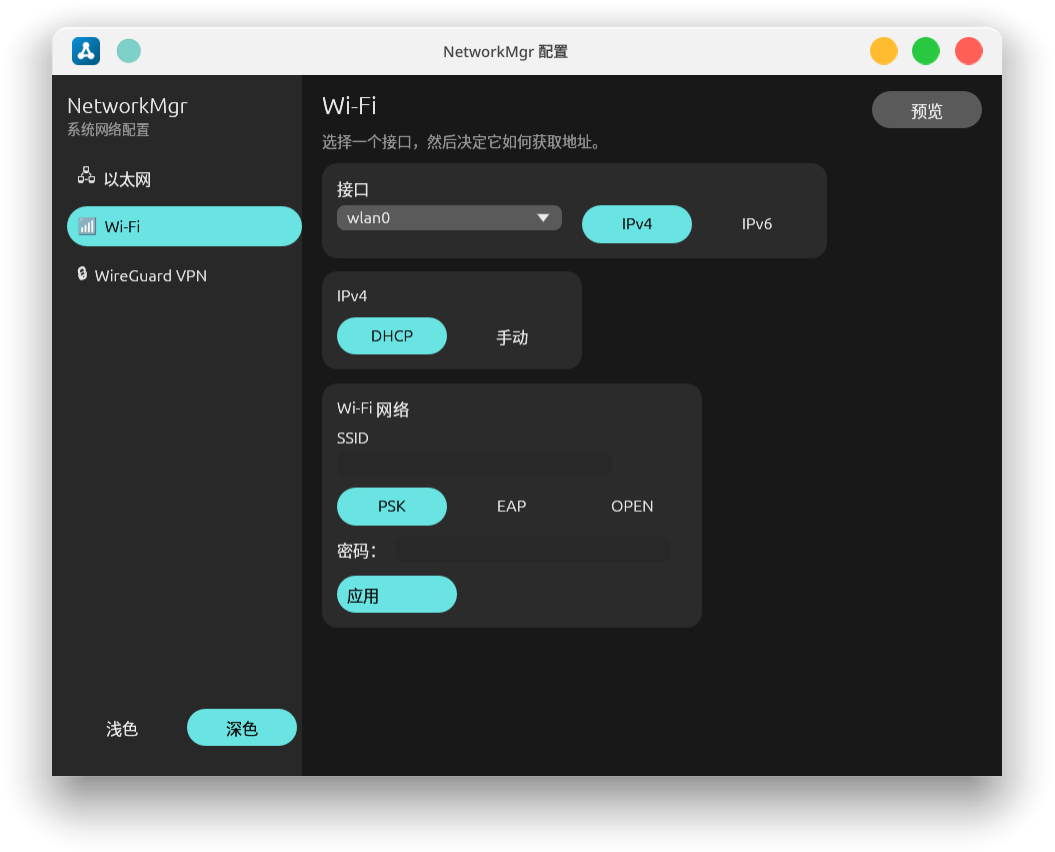
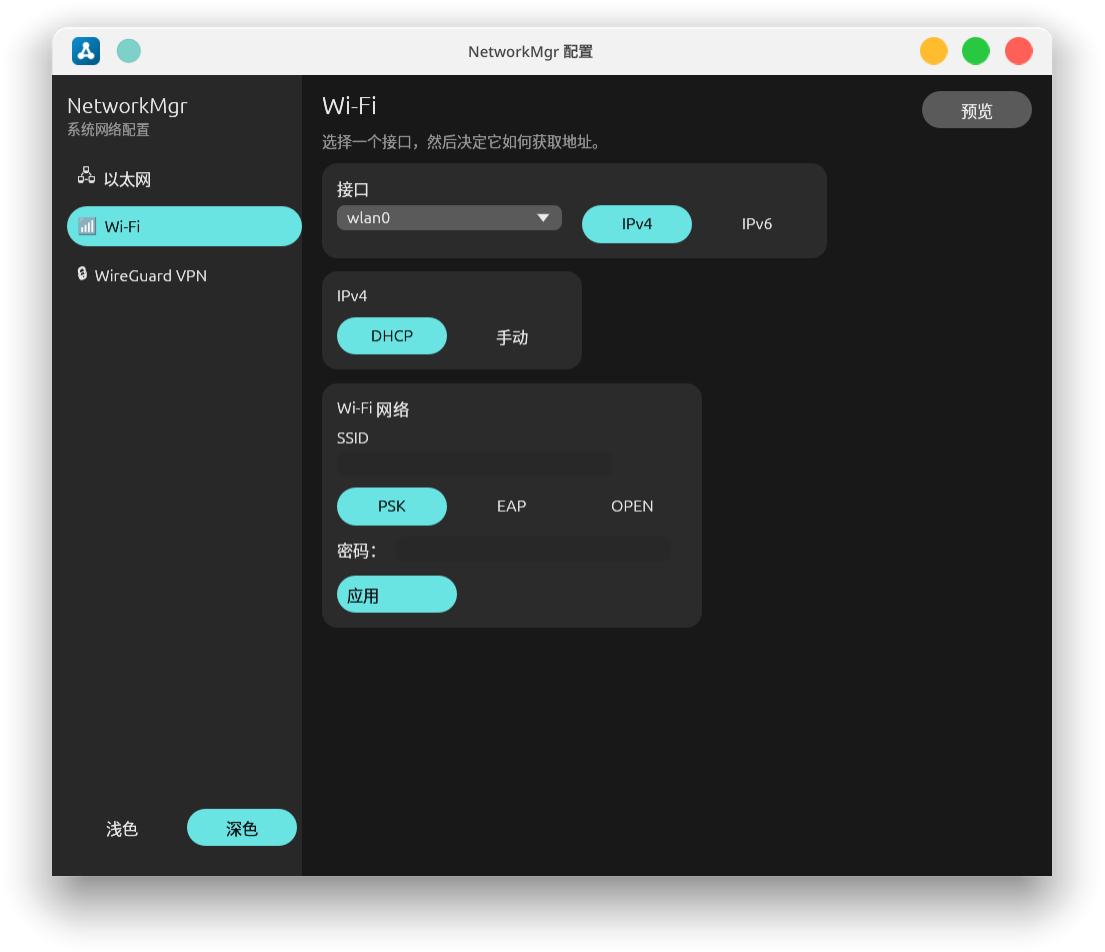
feat: keep the config window at a fixed size and complete the EAP form

diff --git a/rust/spikes/src/bin/config-window.rs b/rust/spikes/src/bin/config-window.rs
@@ -200,7 +200,6 @@ struct ConfigWindow {
     limit: Option<Duration>,
     dark: bool,
     nav: Nav,
-    last_nav: Nav,
     tab: Tab,
     /// 当前页签使用的接口列表；切换页签时由 `switch_nav` 重新填充。
     interfaces: Vec<String>,
@@ -234,6 +233,9 @@ struct ConfigWindow {
     eap_password: String,
     eap_phase2: String,
     eap_ca: String,
+    eap_client_cert: String,
+    eap_private_key: String,
+    eap_key_password: String,
     wifi_status: String,
     vpn_status: String,
     runner: RealRunner,
@@ -254,7 +256,6 @@ impl Default for ConfigWindow {
             limit: None,
             dark: false,
             nav: Nav::Wire,
-            last_nav: Nav::Wire,
             tab: Tab::Ipv4,
             interfaces: wire.clone(),
             selected: 0,
@@ -287,6 +288,9 @@ impl Default for ConfigWindow {
             eap_password: String::new(),
             eap_phase2: "MSCHAPV2".to_string(),
             eap_ca: String::new(),
+            eap_client_cert: String::new(),
+            eap_private_key: String::new(),
+            eap_key_password: String::new(),
             wifi_status: String::new(),
             vpn_status: String::new(),
             runner: RealRunner::new(),
@@ -493,6 +497,9 @@ impl ConfigWindow {
                     password: self.eap_password.clone(),
                     phase2: Some(self.eap_phase2.clone()),
                     ca_cert: self.eap_ca.clone(),
+                    client_cert: self.eap_client_cert.clone(),
+                    private_key: self.eap_private_key.clone(),
+                    private_key_passwd: self.eap_key_password.clone(),
                     ..Default::default()
                 };
                 sys.wpa_save_eap_network(&nic, &self.wifi_ssid, &eap)
@@ -749,6 +756,7 @@ impl ConfigWindow {
                 });
             }
             WifiSecurity::Eap => {
+                let tls = self.eap_method == "TLS";
                 egui::Grid::new("eap")
                     .num_columns(2)
                     .spacing([18.0, 10.0])
@@ -776,34 +784,62 @@ impl ConfigWindow {
                             networkmgr_core::tr!("Username:"),
                             &mut self.eap_identity,
                         );
-                        ui.label(
-                            RichText::new(networkmgr_core::tr!("Password:"))
-                                .size(13.0)
-                                .color(theme.text),
-                        );
-                        ui.add(
-                            egui::TextEdit::singleline(&mut self.eap_password)
-                                .password(true)
-                                .desired_width(220.0),
-                        );
-                        ui.end_row();
-                        ui.label(
-                            RichText::new(networkmgr_core::tr!("Inner Auth:"))
-                                .size(13.0)
-                                .color(theme.text),
-                        );
-                        egui::ComboBox::from_id_salt("eap_phase2")
-                            .selected_text(&self.eap_phase2)
-                            .show_ui(ui, |ui| {
-                                for method in ["MSCHAPV2", "MSCHAP", "PAP", "CHAP", "GTC", "TLS"] {
-                                    ui.selectable_value(
-                                        &mut self.eap_phase2,
-                                        method.to_string(),
-                                        method,
-                                    );
-                                }
-                            });
-                        ui.end_row();
+                        if tls {
+                            field(
+                                ui,
+                                theme,
+                                networkmgr_core::tr!("Client Cert:"),
+                                &mut self.eap_client_cert,
+                            );
+                            field(
+                                ui,
+                                theme,
+                                networkmgr_core::tr!("Private Key:"),
+                                &mut self.eap_private_key,
+                            );
+                            ui.label(
+                                RichText::new(networkmgr_core::tr!("Key Password:"))
+                                    .size(13.0)
+                                    .color(theme.text),
+                            );
+                            ui.add(
+                                egui::TextEdit::singleline(&mut self.eap_key_password)
+                                    .password(true)
+                                    .desired_width(220.0),
+                            );
+                            ui.end_row();
+                        } else {
+                            ui.label(
+                                RichText::new(networkmgr_core::tr!("Password:"))
+                                    .size(13.0)
+                                    .color(theme.text),
+                            );
+                            ui.add(
+                                egui::TextEdit::singleline(&mut self.eap_password)
+                                    .password(true)
+                                    .desired_width(220.0),
+                            );
+                            ui.end_row();
+                            ui.label(
+                                RichText::new(networkmgr_core::tr!("Inner Auth:"))
+                                    .size(13.0)
+                                    .color(theme.text),
+                            );
+                            egui::ComboBox::from_id_salt("eap_phase2")
+                                .selected_text(&self.eap_phase2)
+                                .show_ui(ui, |ui| {
+                                    for method in
+                                        ["MSCHAPV2", "MSCHAP", "PAP", "CHAP", "GTC", "TLS"]
+                                    {
+                                        ui.selectable_value(
+                                            &mut self.eap_phase2,
+                                            method.to_string(),
+                                            method,
+                                        );
+                                    }
+                                });
+                            ui.end_row();
+                        }
                         field(
                             ui,
                             theme,
@@ -975,17 +1011,6 @@ impl ConfigWindow {
 
 impl eframe::App for ConfigWindow {
     fn ui(&mut self, ui: &mut egui::Ui, _frame: &mut eframe::Frame) {
-        // 每页内容高度差很大；切换时把窗口收到内容附近，避免大片空白。
-        if self.last_nav != self.nav {
-            self.last_nav = self.nav;
-            let height = match self.nav {
-                Nav::Wire => 400.0,
-                Nav::Wireless => 560.0,
-                Nav::Vpn => 320.0,
-            };
-            ui.ctx()
-                .send_viewport_cmd(egui::ViewportCommand::InnerSize(egui::vec2(760.0, height)));
-        }
         let theme = Theme::for_mode(self.dark);
         apply_visuals(ui.ctx(), &theme);
 
@@ -1060,14 +1085,9 @@ fn main() -> eframe::Result<()> {
         .filter(|name| networkmgr_core::ifconfig::is_configurable_interface(name))
         .collect();
     let page = std::env::var("NETWORKMGR_PAGE").unwrap_or_default();
-    let initial_height = match page.as_str() {
-        "wire" => 400.0,
-        "vpn" => 320.0,
-        _ => 560.0,
-    };
     let options = eframe::NativeOptions {
         viewport: egui::ViewportBuilder::default()
-            .with_inner_size([760.0, initial_height])
+            .with_inner_size([800.0, 640.0])
             .with_icon(window_icon())
             .with_title(networkmgr_core::tr!("NetworkMgr configuration")),
         renderer: eframe::Renderer::Glow,
@@ -1099,10 +1119,15 @@ fn main() -> eframe::Result<()> {
                 window.interfaces = window.wire_interfaces.clone();
                 window.selected = 0;
             }
-            match std::env::var("NETWORKMGR_PAGE")
-                .unwrap_or_default()
-                .as_str()
-            {
+            if std::env::var("NETWORKMGR_WIFI_SECURITY").as_deref() == Ok("eap") {
+                window.wifi_security = WifiSecurity::Eap;
+            }
+            if let Ok(method) = std::env::var("NETWORKMGR_EAP_METHOD") {
+                if ["PEAP", "TTLS", "TLS"].contains(&method.as_str()) {
+                    window.eap_method = method;
+                }
+            }
+            match page.as_str() {
                 "wire" => window.switch_nav(Nav::Wire),
                 "wireless" => window.switch_nav(Nav::Wireless),
                 "vpn" => window.switch_nav(Nav::Vpn),

diff --git a/docs/RUST_REWRITE_PLAN.md b/docs/RUST_REWRITE_PLAN.md
@@ -999,8 +999,9 @@ CI 备注：`actions/upload-artifact@v4` 触发 GitHub 的 `Node.js 20 is deprec
 - VPN 页读取 `/usr/local/etc/wireguard`，列出隧道与状态，可直接启停。
 - 明暗切换固定到侧栏左下角（按剩余高度推到底部）。
 - 布局收紧：侧栏 252→220、卡片内边距 16→12、按钮与胶囊缩小、间距 12→8。
-- 窗口宽度固定 760；高度按页签自适应（以太网 400 / 无线 560 / VPN 320），
-  切换页签时用 `ViewportCommand::InnerSize` 收到内容附近，避免大面积空白。
+- 窗口固定 **800×640**，不随页签变化；内容超出时使用滚动条，所有字段都能看到。
+- EAP 表单在 PEAP/TTLS 下显示口令与内层认证，TLS 下改为客户端证书/私钥/密钥口令，
+  两种分支都包含用户名与 CA 证书。
 - 新增 `NETWORKMGR_PAGE=wire|wireless|vpn`，方便截图与脚本直接打开指定页。
 - 新增文案「No interfaces found.」「No WireGuard tunnels found.」进全部 7 个 po。
 - 主线程统一处理 `UiRequest::{Action, ConnectOutcome, Refresh}`，工作线程只发事件。

diff --git a/README.md b/README.md
@@ -32,8 +32,8 @@
 |---|
 | ![WireGuard VPN](docs/images/config-vpn.png) |
 
-> 有线与无线共用地址配置表单；只有无线页显示 Wi-Fi 凭据卡片。窗口宽度固定 760，
-> 高度按页签自适应（以太网 400 / 无线 560 / VPN 320）。
+> 有线与无线共用地址配置表单；只有无线页显示 Wi-Fi 凭据卡片。窗口固定 800×640，
+> 内容超出时滚动，不裁切字段。
 > 截图来自本机实跑（`LANG=zh_CN.UTF-8`，`NETWORKMGR_PAGE=wire|wireless|vpn`），
 > 不是设计稿；默认 dry-run，只有 `--apply` 才会写入 `rc.conf`、`resolv.conf` 与 wpa 网络块。
 
